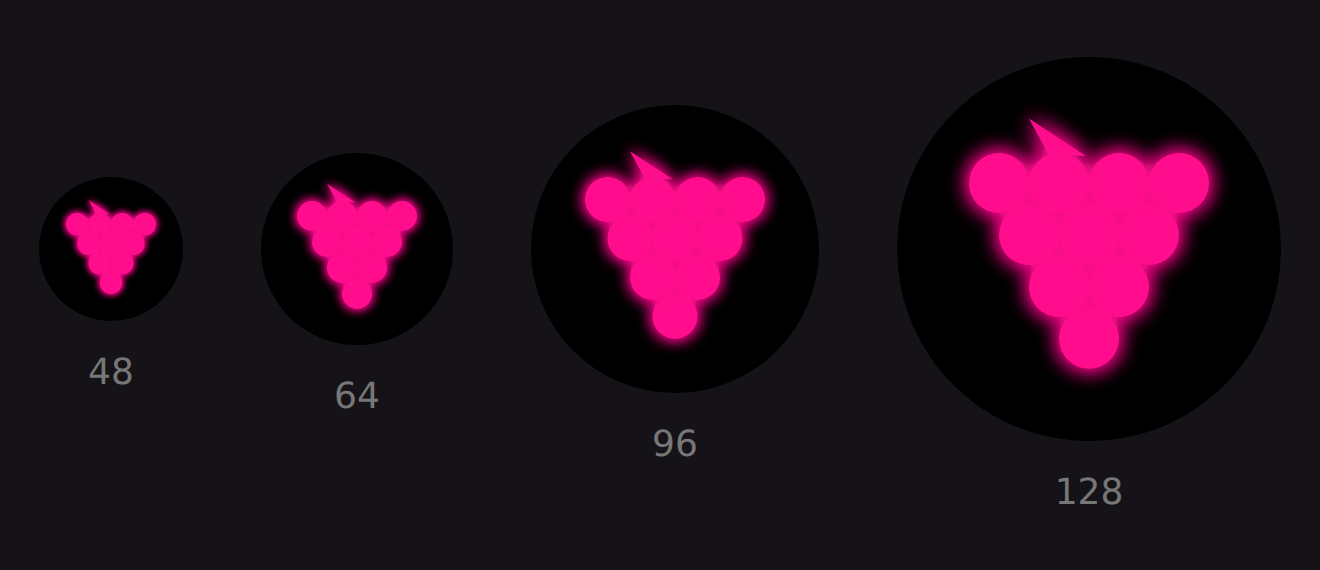
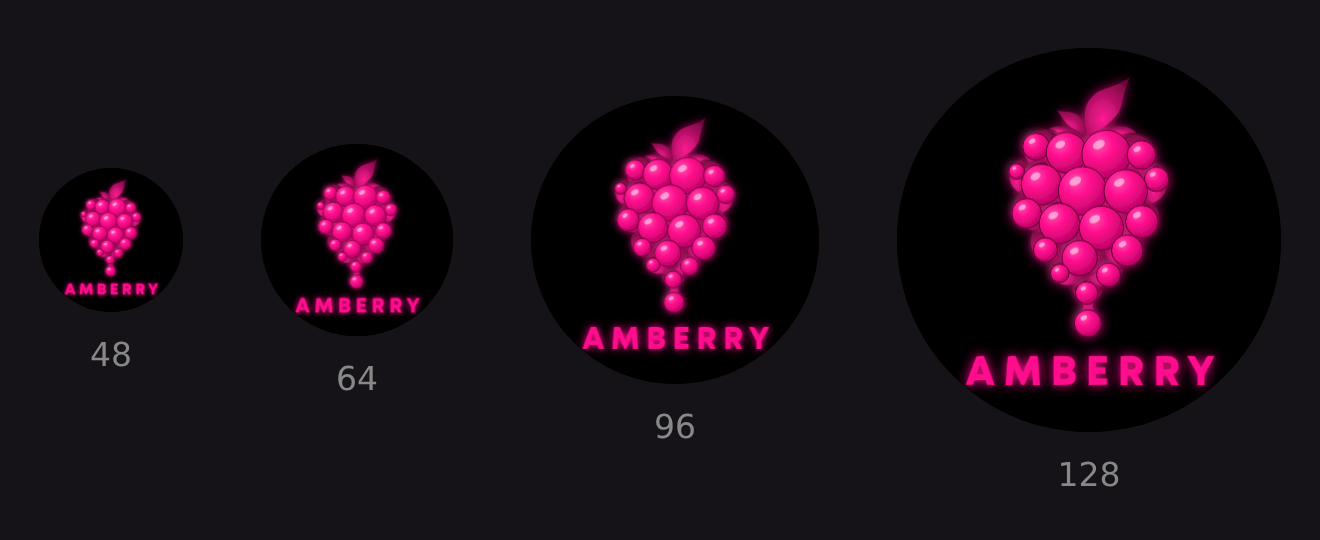
AMBERRY: выбран знак, собран вектор с глянцем
Владелец выбрал глянцевую ягоду с каплей из тридцати с лишним вариантов,
сгенерированных через APIMODELS (GPT Image 2).

Знак теперь в двух видах, и это не дублирование. Парадный растр с фоном,
отражением и рябью под каплей — аватарка бота и лицо в рекламе; Телеграм
всё равно показывает растр, так что глянец там не теряется. Вектор —
рабочий: иконка 32 пикселя, фавикон, печать, водяной знак.

Вектор НЕ плоский. Первая попытка была плоской заливкой и потеряла весь
глянец, ради которого знак и выбирали, — владелец это сразу и отметил.
Теперь у каждой костянки свой радиальный градиент от светлого центра к
тёмному краю, белый блик сверху-слева и тонкая тёмная обводка для
объёма.

Как снимался: та же модель отрисовала знак на ровном чёрном, с образца
potrace снял точный контур силуэта, листа и капли, а центры и радиусы
костянок нашлись числами — через расстояние до фона (локальные максимумы
distance transform). Радиус пришлось поднять на 22 %: расстояние меряет
до ближайшего просвета, а не до края костянки, и при исходных числах
ягода разъезжалась.

Адрес бота исправлен на @theamberrybot — владелец завёл его сам. Токен и
админские номера лежат в secrets.env на VPS, в git их нет.

Файлы прежнего знака (ромб) удалены, аватарки и data-URI перерисованы.
Тестов 35, все зелёные.

Claude-Session: https://claude.ai/code/session_014k3YT9DWK5PbNrwRgKykrK

diff --git a/rocket-panel/brand-amberry/brand.py b/rocket-panel/brand-amberry/brand.py
@@ -9,7 +9,7 @@ import pathlib
 
 NAME = "AMBERRY"
 TAGLINE = "Оживляет любое фото"
-BOT = "@amberry_ai_bot"
+BOT = "@theamberrybot"
 CHANNEL = "@amberryneon"
 SUPPORT = "@amberry_support_bot"
 
@@ -24,9 +24,9 @@ WHITE = "#FFFFFF"
 MUTE = "#8A8792"
 
 _ЗДЕСЬ = pathlib.Path(__file__).parent
-MARK_SVG = _ЗДЕСЬ / "amberry-mark.svg"
-LOCKUP_SVG = _ЗДЕСЬ / "amberry-lockup.svg"
-AVATAR_PNG = _ЗДЕСЬ / "amberry-avatar-512.png"
+MARK_SVG = _ЗДЕСЬ / "amberry-mark.svg"        # вектор: знак + надпись
+AVATAR_PNG = _ЗДЕСЬ / "amberry-avatar-512.png"  # аватарка из вектора
+HERO_JPG = _ЗДЕСЬ / "amberry-70-hero.jpg"       # парадный рендер с фоном
 
 
 def logo_data_uri():

diff --git a/rocket-panel/brand-amberry/README.md b/rocket-panel/brand-amberry/README.md
@@ -30,12 +30,12 @@ STRAWBERRY — в этой нише заезжено.
 
 | | |
 |---|---|
-| бот | **@amberry_ai_bot** |
+| бот | **@theamberrybot** |
 | канал | **@amberryneon** |
 | поддержка | **@amberry_support_bot** |
 
-Свободны на 20.09.2026, проверено через живой API. Имена в Телеграме
-разбирают быстро.
+Бот заведён владельцем 20.09.2026. Токен и админские номера лежат в
+хранилище на VPS (`secrets.env`), в git их нет и не будет.
 
 Домены: одиночные произносимые слова в `.com` заняты все, включая
 `amberry.com` — это норма рынка, а не неудача. Брать `amberry.app`,
@@ -43,34 +43,49 @@ STRAWBERRY — в этой нише заезжено.
 
 ## Знак
 
-Гроздь костянок малины: ряды 4-3-2-1, книзу сходится на конус. Сверху
-угловатый лист.
+Глянцевая ягода из костянок с каплей снизу и угловатым листом — выбран
+владельцем из тридцати с лишним вариантов.
 
-Читается ягодой с 48 пикселей — проверено (`amberry-avatar-check.png`),
-а аватарка в Телеграме кадрируется в круг.
+**Знак существует в двух видах, и это не дублирование.**
 
-**Две попытки до этого ушли в брак, и вот почему** — чтобы не повторять:
+**Растр (`amberry-70-hero.jpg`)** — парадный. Полный глянец, отражение,
+рябь под каплей, янтарные блики в глубине. Это **аватарка бота и лицо в
+рекламе**: Телеграм всё равно показывает растр, так что здесь ничего не
+теряется.
 
-1. Розетка «шесть костянок вокруг одной» читалась **ромашкой**, а не
-   ягодой. Симметричная розетка всегда даёт цветок.
-2. Янтарная костянка в середине выглядела **ошибкой печати**: жёлтый
-   кружок среди розовых глаз воспринимает как сбой. Попытка заменить её
-   янтарным свечением под гроздью дала бурое пятно.
+**Вектор (`amberry-mark.svg`)** — рабочий. Он **не плоский**: у каждой
+костянки свой радиальный градиент от светлого центра к тёмному краю,
+белый блик сверху-слева и тонкая тёмная обводка для объёма. Нужен там,
+где растр разваливается — иконка 32 пикселя, фавикон, печать, водяной
+знак, одноцветная штамповка.
 
-Итог: гроздь одним цветом. **Янтарь живёт в названии и в акцентах
-интерфейса — рисовать его в знаке не нужно.**
+Как делался: модель отрисовала знак на ровном чёрном
+(`amberry-71-flat.jpg`), с него `potrace` снял точный контур силуэта,
+листа и капли, а центры и радиусы костянок нашлись числами — через
+расстояние до фона. Поэтому вектор лёг ровно по образцу, а не на глаз.
+
+**Три попытки до этого ушли в брак, и вот почему:**
+
+1. Симметричная розетка «шесть костянок вокруг одной» читалась
+   **ромашкой**, а не ягодой.
+2. Янтарная костянка среди розовых выглядела **ошибкой печати**;
+   янтарное свечение под гроздью дало бурое пятно. Янтарь ушёл в
+   акценты интерфейса.
+3. Первый вектор вышел **плоским** и потерял весь глянец — ради
+   которого знак и выбирали. Отсюда градиенты и блики.
+
+Читается с 48 пикселей — проверено, `amberry-avatar-check.png`.
 
 | файл | зачем |
 |---|---|
-| `amberry-mark.svg` | знак. Аватарка, иконка, favicon |
-| `amberry-lockup.svg` | знак + надпись + подпись. Шапки, обложки |
-| `amberry-wordmark.svg` | только надпись |
-| `amberry-avatar-512.png` · `-256.png` | готовые аватарки |
+| `amberry-mark.svg` | вектор: знак + надпись. Иконка, печать, фавикон |
+| `amberry-70-hero.jpg` | парадный рендер с фоном. Аватарка, реклама |
+| `amberry-71-flat.jpg` | образец, по которому снят вектор |
+| `amberry-avatar-512.png` · `-256.png` | готовые аватарки из вектора |
 | `amberry-logo-b64.txt` | data-URI для `<img src=...>` |
 | `tokens.css` · `brand.py` | цвет и шрифт для вёрстки и для бота |
 
-**Логотип берётся отсюда и нигде не рисуется заново** — то же правило,
-что у OKO.
+**Логотип берётся отсюда и нигде не рисуется заново.**
 
 ## Цвет
 
